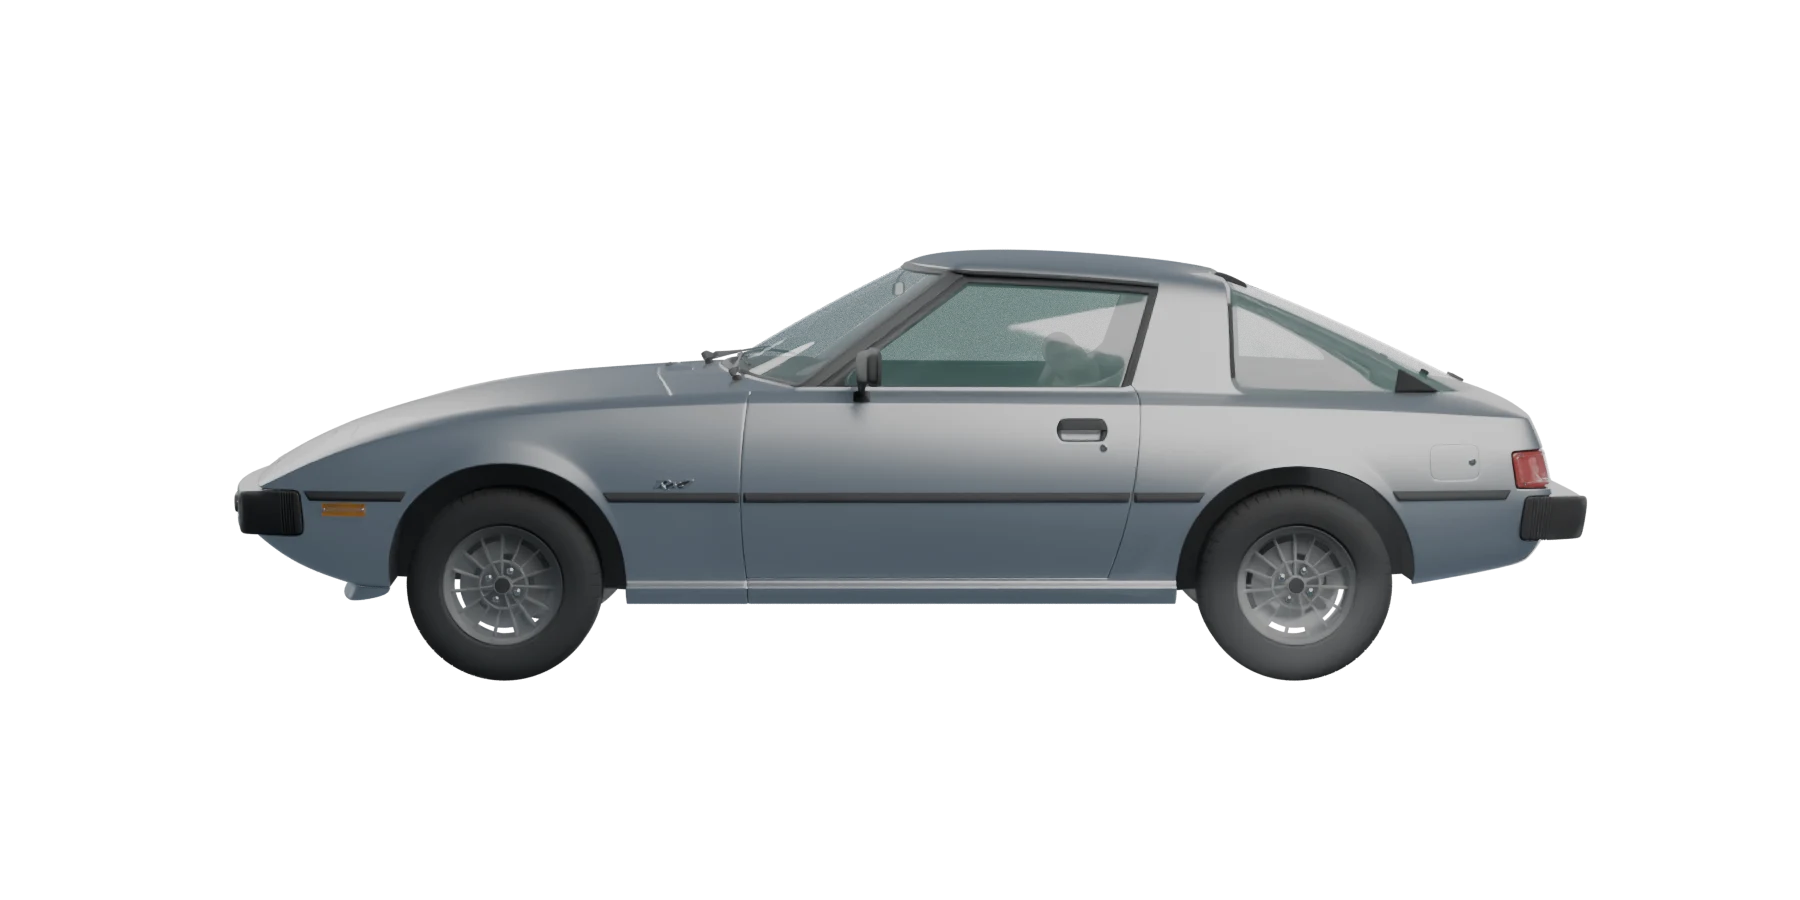
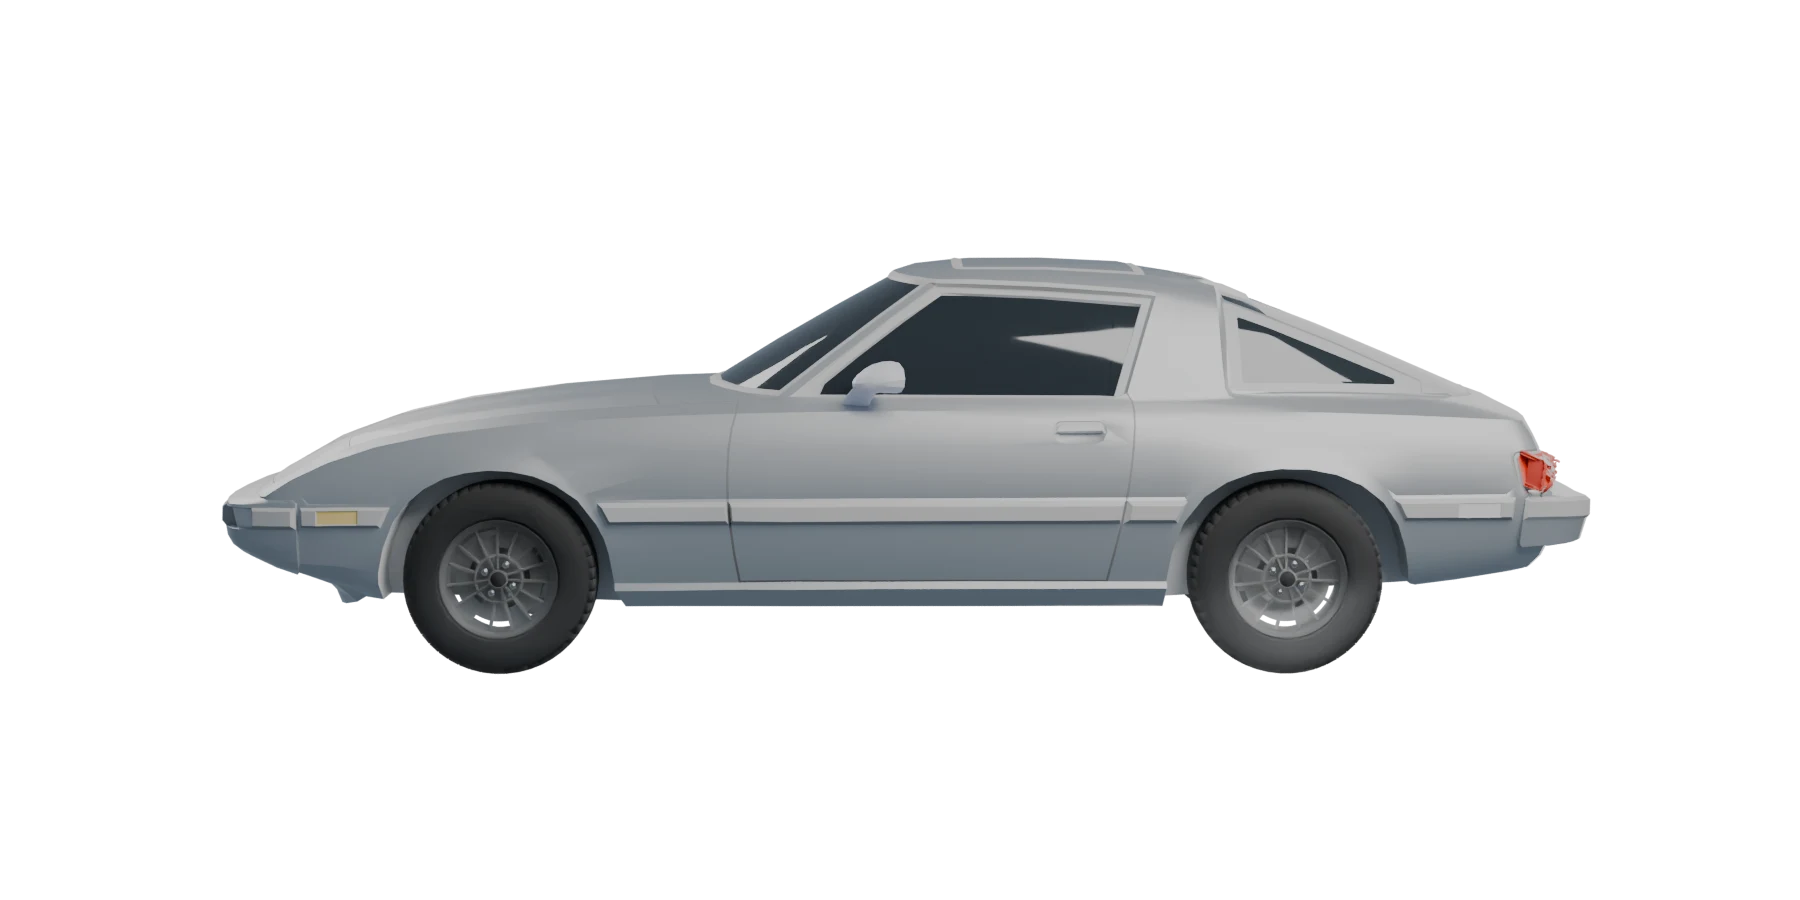
App: the 3D view and the renders show the FB body, not the 1978 SA (D-420)
blend.py now exports rx7-fb.glb for the desktop view (FB shell at factory size, the SA's
wheels on the FB track, the scanned tail lamps, one carpaint material for the picker) and
renders side/threequarter.webp from it with build.py's lighting. build.py renders only
with --renders. blend row wheels_sa added; the spec-built wheels stay as a hidden check.

Changed region(s): [[0.1244, 0.28, 0.9022, 0.7778]]

diff --git a/02-PROJECTS/10-gui/app/src/components/CarModel.svelte b/02-PROJECTS/10-gui/app/src/components/CarModel.svelte
@@ -1,8 +1,9 @@
 <!--
-  The car in 3D (D-415): the purchased model built by 01-REFERENCE/model/build.py, turned
-  with the mouse, repainted from the swatch. Desktop only — the model stays on the PC and
-  out of git, so the phone shows the renders instead. It is a 1978 body: the FB's bumpers,
-  tail lamps and dash differ, and nothing is measured from it here.
+  The car in 3D (D-415, D-420): the FB body from the free CAD library, scaled to the factory
+  size, on the bought 1978 model's wheels, built by 01-REFERENCE/model/blend.py. Turned with
+  the mouse, repainted from the swatch (materials named carpaint). Desktop only — the model
+  stays on the PC and out of git, so the phone shows the renders instead. It is low-poly and
+  has no interior, and nothing is measured from it here.
 -->
 <script lang="ts">
   import { onMount } from 'svelte';
@@ -100,7 +101,7 @@
         <button class="btn small ghost" onclick={() => (paint = SILVER)}><RotateCcw size={14} /> Sunbeam Silver</button>
       {/if}
     </div>
-    <p class="caveat faint">A 1978 body — the FB's bumpers, tail lamps and dash differ. Drag to turn it.</p>
+    <p class="caveat faint">The FB body at factory size; the wheels are the 1978 model's. Drag to turn it.</p>
   {/if}
 </div>
 

diff --git a/02-PROJECTS/10-gui/app/src/screens/Home.svelte b/02-PROJECTS/10-gui/app/src/screens/Home.svelte
@@ -30,8 +30,8 @@
   const photos = $derived(app.snapshot?.photos ?? []);
   const hero = $derived(photos.length ? app.platform?.photo(photos[0]) : '');
 
-  // The 3D view (D-415) exists only where the model was built — the desktop, from its tree.
-  const MODEL = '01-REFERENCE/model/rx7.glb';
+  // The 3D view (D-415, D-420) exists only where the model was built — the desktop, from its tree.
+  const MODEL = '01-REFERENCE/model/rx7-fb.glb';
   let modelSrc = $state('');
   let turning = $state(false);
   $effect(() => {

diff --git a/01-REFERENCE/model/blend.py b/01-REFERENCE/model/blend.py
@@ -26,6 +26,7 @@ import json
 import math
 import mathutils
 import os
+import sys
 
 ROOT = os.path.abspath(os.path.join(os.path.dirname(__file__), "..", ".."))
 FILES = os.path.join(ROOT, "01-REFERENCE", "model", "library")
@@ -53,6 +54,12 @@ ENGINE_SHAFT_Z = 360.0        # eccentric shaft height above the ground
 EXPORT_SCALE_13B = 0.35       # ericthepoolboy's parts are 35 % of full size
 
 CHECKS = {}
+SILVER = (0.46, 0.48, 0.50, 1.0)  # Sunbeam Silver as a linear base colour, as model/build.py has it
+# the FB shell's painted groups: body, bonnet, doors, roof, bumpers, pop-up covers
+PAINTED = ("CARROCERIA", "CAPOT", "PUERTAS", "TECHO", "PARAG_DEL", "PARAG_TRAS", "TAPAFAROS")
+APP_ART = os.path.join(ROOT, "02-PROJECTS", "10-gui", "app", "public", "car")
+GLASS = None  # set by fb_body()
+APP_GLB = os.path.join(ROOT, "01-REFERENCE", "model", "rx7-fb.glb")
 LAMP_TARGET = []  # the FB body's own tail lamp meshes, filled by fb_body()
 
 
@@ -165,6 +172,8 @@ def fb_body():
     wheels = [o for o in meshes if under(o, "Rueda")]
     wing = [o for o in meshes if under(o, "a28")]
     mirror_ids = {id(o) for o in meshes if under(o, "ESPEJOS")}
+    panel_ids = {id(o) for o in meshes if any(under(o, w) for w in PAINTED)}
+    glass_ids = {id(o) for o in meshes if under(o, "VIDRIOS")}
     LAMP_TARGET[:] = [o for o in meshes if under(o, "LUCES_TRAS") or under(o, "LUZ_TRAS")]
     bake(objs)
     meshes = [o for o in bpy.data.objects if o in meshes]
@@ -202,7 +211,25 @@ def fb_body():
     CHECKS["fb_body.scale"] = round(s, 4)
     CHECKS["fb_body.overhang_front"] = round(mx.y, 1)
     CHECKS["fb_body.overhang_rear"] = round(-WHEELBASE - mn.y, 1)
-    paint(body, material("sunbeam_silver", (0.46, 0.48, 0.50, 1), 0.8, 0.35))
+    global GLASS
+    GLASS = material("glass", (0.02, 0.025, 0.03, 1), 0.0, 0.04)
+    GLASS.node_tree.nodes["Principled BSDF"].inputs["Transmission Weight"].default_value = 0.6
+    carpaint = material("carpaint", SILVER, 0.85, 0.32)
+    carpaint.node_tree.nodes["Principled BSDF"].inputs["Coat Weight"].default_value = 1.0
+    for o in body:
+        o.data.shade_smooth()
+        o.data.set_sharp_from_angle(angle=math.radians(40))
+        for i, m in enumerate(o.data.materials):
+            if id(o) in glass_ids or (m and "glass" in m.name.lower()):
+                o.data.materials[i] = GLASS
+        if id(o) not in panel_ids:
+            continue
+        for i, m in enumerate(o.data.materials):
+            # every material on a painted panel is its paint, except a lamp's strong colour
+            bsdf = m.node_tree.nodes.get("Principled BSDF") if m and m.use_nodes else None
+            c = bsdf.inputs["Base Color"].default_value if bsdf else (0.8, 0.8, 0.8, 1)
+            if m is None or (m.name != "glass" and max(c[:3]) - min(c[:3]) < 0.5):
+                o.data.materials[i] = carpaint
     move_to(body, collection("fb_body"))
     return body
 
@@ -245,7 +272,36 @@ def sa_overlay():
     track = (max(c.x for c in cs) - min(c.x for c in cs)) * s
     check("sa_overlay.track_at_tyre_centres", track, (TRACK_F + TRACK_R) / 2)
     move_to(meshes, collection("sa_overlay", shown=False))
+    sa_wheels(meshes, tyres)
     return meshes
+
+
+def sa_wheels(meshes, tyres):
+    """The SA's tyre, rim, brake disc and wheel nuts - everything within 320 mm of each tyre
+    centre that is not paint - copied and moved onto the FB's factory track (SP-132). Its
+    tyre is 599 mm across against the FB's derived 589; kept as modelled."""
+    out = []
+    for t in tyres:
+        c = sum(bounds([t]), mathutils.Vector()) / 2
+        parts = []
+        for o in meshes:
+            a, b = bounds([o])
+            oc, size = (a + b) / 2, max(b - a)
+            mat = o.active_material.name if o.active_material else ""
+            if (oc - c).length < 320 and size < 650 and not mat.startswith("carpaint"):
+                parts.append(o)
+        side = 1 if c.x > 0 else -1
+        track = TRACK_F if c.y > -WHEELBASE / 2 else TRACK_R
+        dx = side * track / 2 - c.x
+        for o in parts:
+            n = o.copy()
+            n.data = o.data.copy()
+            n.data.transform(mathutils.Matrix.Translation((dx, 0, 0)))
+            bpy.context.scene.collection.objects.link(n)
+            out.append(n)
+    CHECKS["wheels_sa.parts"] = len(out)
+    move_to(out, collection("wheels_sa"))
+    return out
 
 
 # ---- wheels and tyres, from the specs alone -------------------------------------------
@@ -268,7 +324,7 @@ def wheels():
         r.name = name + "_rim"
         paint([r], steel)
         objs += [t, r]
-    move_to(objs, collection("wheels"))
+    move_to(objs, collection("wheels", shown=False))
     CHECKS["wheels.tyre_diameter"] = round(TYRE_D, 1)
     return objs
 
@@ -475,6 +531,84 @@ def tail_lamps(body):
     return [o, left]
 
 
+# ---- the app: its renders and its 3D view (D-420) ---------------------------------------
+def app_frame():
+    """The app's 3D view frames the car in centimetres, centred on the ground (CarModel.svelte)."""
+    return mathutils.Matrix.Scale(0.1, 4) @ mathutils.Matrix.Translation((0, WHEELBASE / 2, 0))
+
+
+def app_art(objs):
+    """The Home and Manual renders, lit and framed as model/build.py lit the SA (D-415)."""
+    sc = bpy.context.scene
+    keep = (sc.render.engine, sc.render.resolution_x, sc.render.resolution_y, sc.camera, sc.world)
+    sc.render.engine = "CYCLES"
+    sc.cycles.device = "CPU"
+    sc.cycles.samples = 48
+    sc.cycles.use_denoising = True
+    sc.render.film_transparent = True
+    sc.render.resolution_x, sc.render.resolution_y = 1800, 900
+    sc.view_settings.view_transform = "AgX"
+    world = bpy.data.worlds.new("studio")
+    world.use_nodes = True
+    world.node_tree.nodes["Background"].inputs["Color"].default_value = (0.20, 0.24, 0.30, 1)
+    world.node_tree.nodes["Background"].inputs["Strength"].default_value = 0.9
+    sc.world = world
+    lights = []
+    for name, loc, energy, size in (("key", (-400, -300, 500), 1.6e7, 400), ("rim", (500, 400, 300), 9e6, 300),
+                                    ("fill", (500, -400, 120), 4e6, 500)):
+        light = bpy.data.objects.new(name, bpy.data.lights.new(name, "AREA"))
+        light.data.energy, light.data.size = energy, size
+        light.location = loc
+        light.rotation_euler = (mathutils.Vector((0, 0, 50)) - mathutils.Vector(loc)).to_track_quat("-Z", "Y").to_euler()
+        sc.collection.objects.link(light)
+        lights.append(light)
+    lo, hi = bounds(objs)
+    centre = (lo + hi) / 2
+    cam = bpy.data.objects.new("appcam", bpy.data.cameras.new("appcam"))
+    sc.collection.objects.link(cam)
+    sc.camera = cam
+    cam.data.lens = 70
+    cam.data.clip_end = 10000
+    os.makedirs(APP_ART, exist_ok=True)
+    for name, direction, dist in (("side", (-1, 0.0, 0.08), 1150), ("threequarter", (-0.72, 0.66, 0.2), 1150)):
+        d = mathutils.Vector(direction).normalized()
+        cam.location = centre + d * dist
+        cam.rotation_euler = (centre - cam.location).to_track_quat("-Z", "Y").to_euler()
+        png = os.path.join(OUT, f"app-{name}.png")
+        sc.render.filepath = png
+        bpy.ops.render.render(write_still=True)
+        img = bpy.data.images.load(png)
+        sc.render.image_settings.file_format = "WEBP"
+        sc.render.image_settings.quality = 88
+        img.save_render(os.path.join(APP_ART, f"{name}.webp"))
+        sc.render.image_settings.file_format = "PNG"
+    for o in lights + [cam]:
+        bpy.data.objects.remove(o)
+    sc.render.engine, sc.render.resolution_x, sc.render.resolution_y, sc.camera, sc.world = keep
+    sc.render.film_transparent = False
+
+
+def app_model(objs):
+    for o in bpy.data.objects:
+        o.select_set(False)
+    for o in objs:
+        o.select_set(True)
+    bpy.ops.export_scene.gltf(filepath=APP_GLB, export_format="GLB", use_selection=True, export_apply=True,
+                              export_yup=True, export_texcoords=False, export_cameras=False, export_lights=False)
+
+
+def in_frame(objs, m, fn):
+    """Run fn with objs moved into another frame, then move them back."""
+    for o in objs:
+        o.data.transform(m)
+    try:
+        fn(objs)
+    finally:
+        inv = m.inverted()
+        for o in objs:
+            o.data.transform(inv)
+
+
 # ---- output ---------------------------------------------------------------------------
 def render(name, view):
     scn = bpy.context.scene
@@ -527,32 +661,46 @@ def main():
         bpy.context.scene.display.shading.show_xray = xray
         bpy.context.scene.display.shading.xray_alpha = 0.25
 
-    only("fb_body", "wheels", "engine_12a", xray=True)
+    only("fb_body", "wheels_sa", "engine_12a", xray=True)
     render("xray-12a", "side")
     render("xray-12a", "top")
-    only("fb_body", "wheels", "engine_ls3", xray=True)
+    only("fb_body", "wheels_sa", "engine_ls3", xray=True)
     render("xray-ls3", "side")
     render("xray-ls3", "top")
-    only("fb_body", "wheels", "tail_lamps")
+    only("fb_body", "wheels_sa", "tail_lamps")
     render("tail-lamps", "rear")
     render("tail-lamps", "three")
     only("sa_overlay")
     render("sa-overlay", "side")
-    shown_set = ["fb_body", "wheels", "engine_12a"]
+    shown_set = ["fb_body", "wheels_sa", "engine_12a"]
     if "tail_lamps" in cols and CHECKS.get("tail_lamp.icp_rms", 99) <= 25:
         shown_set.append("tail_lamps")
     only(*shown_set)  # the shown set, as exported
     bpy.ops.wm.save_as_mainfile(filepath=os.path.join(OUT, "rx7-fb.blend"))
-    # glTF: shown collections only, metres
-    for o in bpy.data.objects:
-        o.select_set(False)
     shown = [o for o in bpy.data.objects if o.type == "MESH"
              and not any(c.hide_render for c in o.users_collection)]
-    for o in shown:
-        o.data.transform(mathutils.Matrix.Scale(0.001, 4))  # glTF is in metres
-        o.select_set(True)
-    bpy.ops.export_scene.gltf(filepath=os.path.join(OUT, "rx7-fb.glb"), export_format="GLB",
-                              use_selection=True, export_apply=True, export_yup=True)
+    # the app's set: what shows from outside - the engine is inside a closed body
+    app = [o for o in shown if not any(c.name == "engine_12a" for c in o.users_collection)]
+    if "--no-app" not in sys.argv:
+        hidden = [c for c in cols if not c.hide_render and c.name not in ("fb_body", "wheels_sa", "tail_lamps")]
+        for c in hidden:
+            c.hide_render = True
+        in_frame(app, app_frame(), app_art)
+        thin = []
+        for o in app:
+            if len(o.data.polygons) > 50000:  # the lamp scans: a million triangles each
+                d = o.modifiers.new("thin", "DECIMATE")
+                d.ratio = 30000 / len(o.data.polygons)
+                thin.append((o, d))
+        in_frame(app, app_frame(), app_model)
+        for o, d in thin:
+            o.modifiers.remove(d)
+        for c in hidden:
+            c.hide_render = False
+    in_frame(shown, mathutils.Matrix.Scale(0.001, 4), lambda objs: (
+        [o.select_set(o in objs) for o in bpy.data.objects],
+        bpy.ops.export_scene.gltf(filepath=os.path.join(OUT, "rx7-fb.glb"), export_format="GLB",
+                                  use_selection=True, export_apply=True, export_yup=True)))
     with open(os.path.join(OUT, "checks.json"), "w") as fh:
         json.dump(CHECKS, fh, indent=1, sort_keys=True)
     print("CHECKS", json.dumps(CHECKS, sort_keys=True))

diff --git a/01-REFERENCE/model/build.py b/01-REFERENCE/model/build.py
@@ -7,7 +7,8 @@ Run headless, from the tree root:
 Reads   01-REFERENCE/model/1978-mazda-rx-7-mk1-sa.zip   (kept out of git - README.md)
 Writes  01-REFERENCE/model/rx7.glb                        the app's 3D view (desktop only, out of git)
         01-REFERENCE/model/landmarks.json                 part centres, mm, for route estimates (out of git)
-        02-PROJECTS/10-gui/app/public/car/*.webp          the app's renders (committed: renders, not the model)
+        02-PROJECTS/10-gui/app/public/car/*.webp          only with --renders: the app's renders come from
+                                                          blend.py, the FB body, since D-420
 
 Owns no table. Paint is Sunbeam Silver, read from 00-CAR/data/vehicle.csv (row `colour`)
 only to name it here; the colour itself is set below.
@@ -163,7 +164,7 @@ def export_glb(meshes):
 def main():
     meshes = load(unzip_obj())
     landmarks(meshes)
-    if "--no-render" not in sys.argv:
+    if "--renders" in sys.argv:  # the app shows the FB since D-420: blend.py writes them
         render(meshes)
     export_glb(meshes)
     print("RX7-MODEL built", len(meshes), "parts")

diff --git a/01-REFERENCE/model/README.md b/01-REFERENCE/model/README.md
@@ -16,7 +16,7 @@ so the zip and everything built from it are in `.gitignore`. To restore it, put
 | `rx7.glb` | no | a lighter copy (about 280k triangles, 5 MB) for the app's 3D view (D-415) |
 | `landmarks.json` | no | each part's centre and size in mm, for `estimate.py` |
 | `estimate.py` | yes | rough route lengths into `routes.model_ft` (D-416) |
-| `10-gui/app/public/car/*.webp` | yes | the app's renders: pictures, not the model |
+| `10-gui/app/public/car/*.webp` | yes | the app's renders: pictures, not the model. Written by `blend.py` from the FB since D-420 (`build.py --renders` still makes the SA's) |
 
 ## Build
 
@@ -44,6 +44,7 @@ download; its `url` is kept so it can be fetched by hand into `library/<category
 | `catalog.py` | yes | imports new manifest lines into `cad` (never overwrites a row) |
 | `blend.py` | yes | Blender script: builds the one combined model |
 | `out/rx7-fb.blend`, `.glb` | no | the combined model: one collection per `blend` row |
+| `rx7-fb.glb` | no | the app's 3D view (D-420): the FB body, the SA's wheels and the tail-lamp scans, in cm, centred |
 | `out/checks.json`, `*.png` | no | every check against the factory figures, and the renders |
 
 ```
